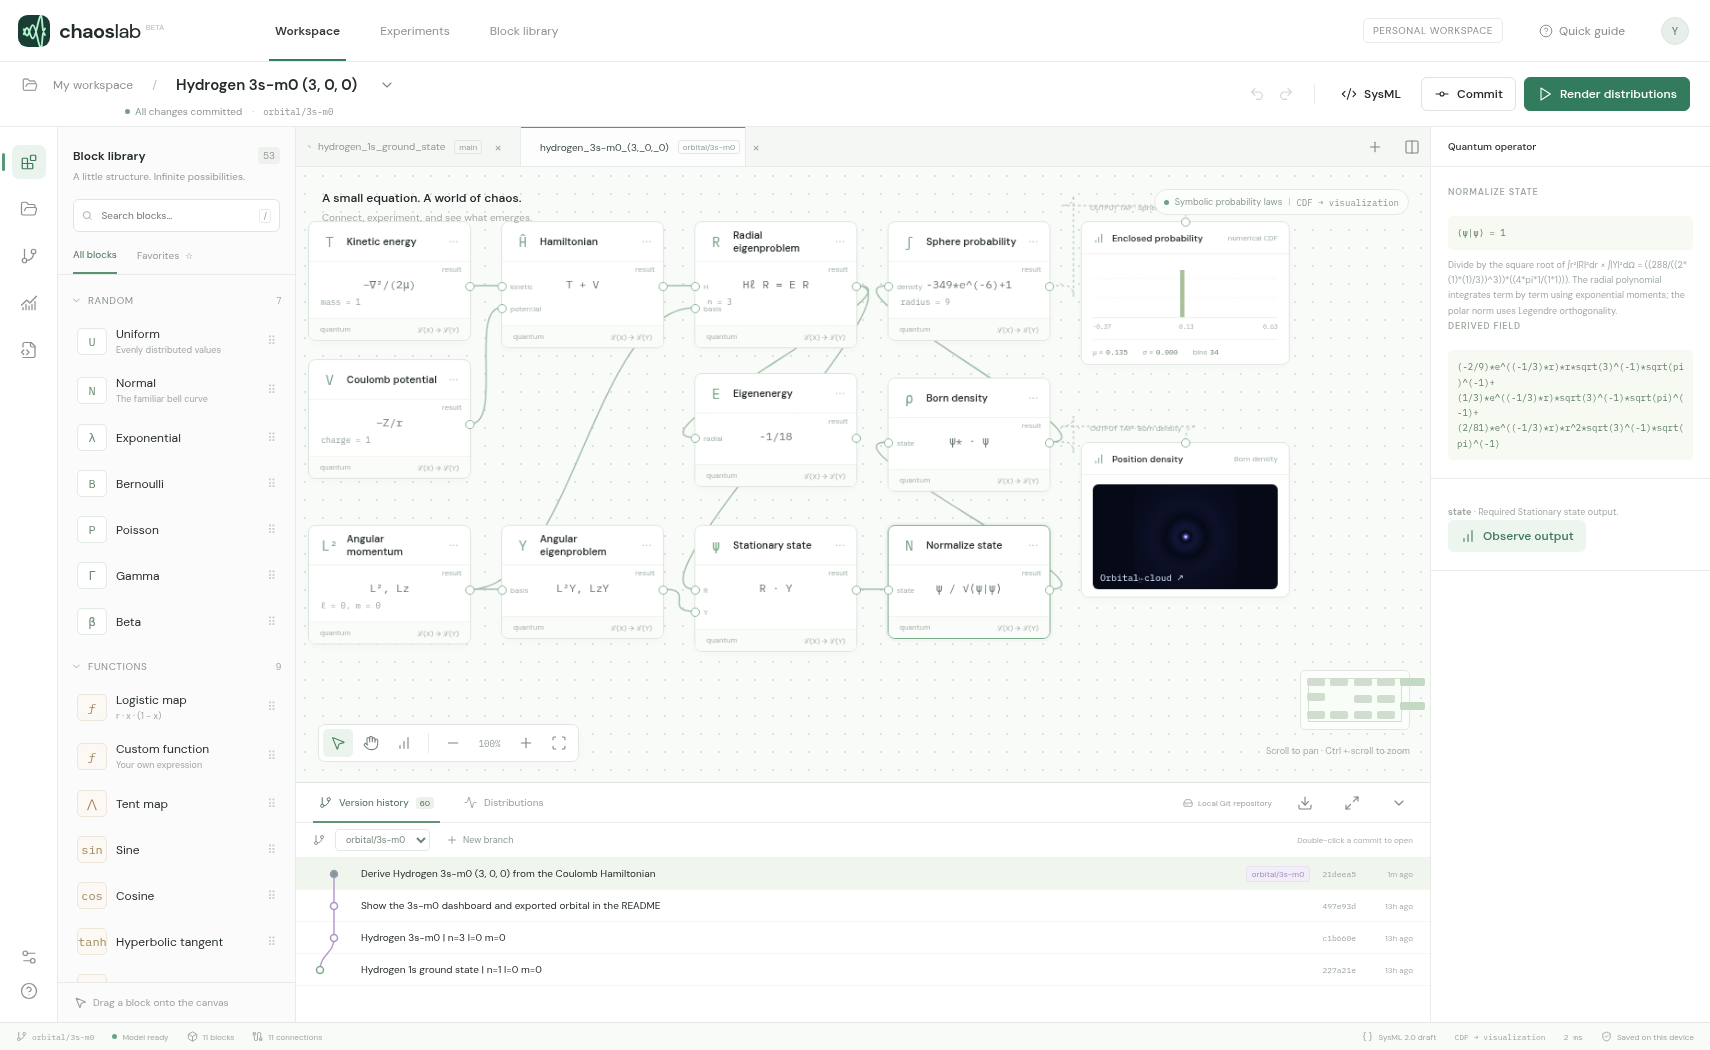
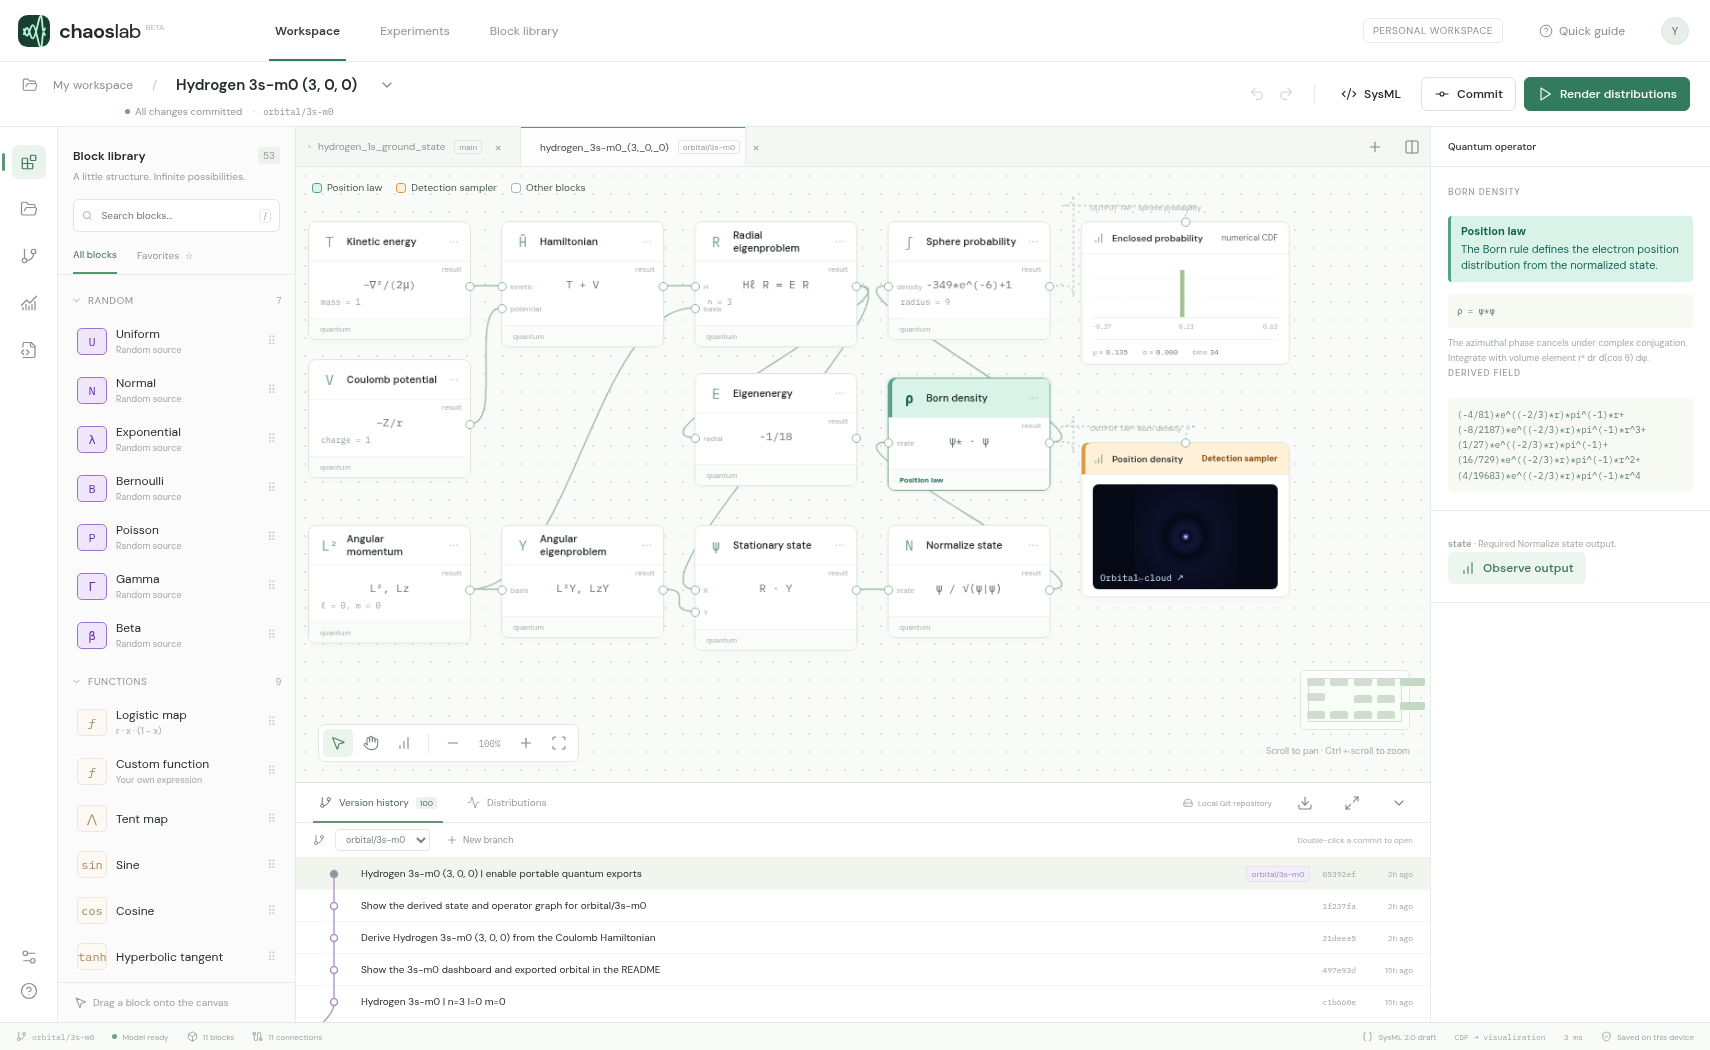
Hydrogen 3s-m0 (3, 0, 0) | identify the position law and detection sampler

diff --git a/studio.py b/studio.py
@@ -10,7 +10,7 @@ import tempfile
 import webbrowser
 
 ROOT = Path(__file__).resolve().parent
-STUDIO_REV = "1cc30c5632f1fe1f79a11ab6730f82c36a6c01e4"
+STUDIO_REV = "8657d6ecd3aa33a5a28f43219d5d6bfb8aa3edcc"
 STUDIO_REPO = "https://github.com/wa200508/chaos_lab.git"
 
 

diff --git a/README.md b/README.md
@@ -6,6 +6,8 @@ Open **Version history** in Chaos Lab to explore the 20 hydrogen designs in this
 
 The connected Hamiltonian and eigenstate solvers give $E=-1/18$ Hartree for this state.
 
+On the canvas, teal **Position law** marks where the Born rule defines the distribution of electron positions. Amber **Detection sampler** marks the tap that draws positions for the projected cloud. The central slice evaluates the density directly.
+
 ![Chaos Lab dashboard with the 3s model, m = 0, open in version history](dashboard.png)
 
 Radial nodes: 2. Polar nodes: 0. Plot half-width: 18 Bohr radii.
